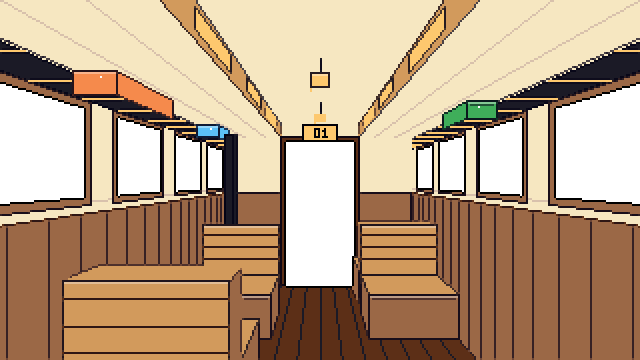
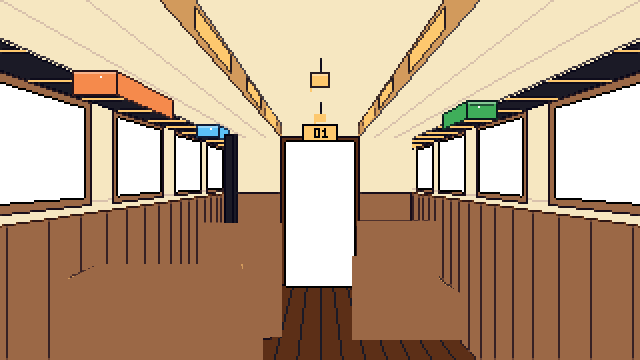
feat: Sépare les banquettes du wagon 01 en calques

Changed region(s): [[0.0938, 0.6111, 0.4375, 1.0], [0.5312, 0.6111, 0.7188, 0.9472]]

diff --git a/index.html b/index.html
@@ -36,6 +36,9 @@
         <img class="wagon__calque wagon__porte wagon__porte--gauche" src="assets/images/commun/porte-gauche.png" alt="">
         <img class="wagon__calque wagon__porte wagon__porte--droite" src="assets/images/commun/porte-droite.png" alt="">
         <img class="wagon__calque" src="assets/images/wagon-01/interieur.png" alt="Intérieur du wagon, banquettes en bois face à face">
+        <img class="wagon__calque" src="assets/images/wagon-01/banc-02.png" alt="">
+        <img class="wagon__calque" src="assets/images/wagon-01/banc-01.png" alt="">
+        <img class="wagon__calque" src="assets/images/wagon-01/banc-03.png" alt="">
         <img class="wagon__calque wagon__personnage" src="assets/images/wagon-01/personnage-01.png" alt="Vieux monsieur assis de dos" data-nom="Margot" data-pensee="Lorem ipsum dolor sit amet, consectetur adipiscing elit.">
         <img class="wagon__calque wagon__personnage" src="assets/images/wagon-01/personnage-02.png" alt="Voyageuse aux cheveux violets, assise de face" data-nom="Jules" data-pensee="Sed do eiusmod tempor incididunt ut labore.">
         <!-- Joaquim : sprite dessiné par Lino, posé tel quel (sans retouche ni mise à l'échelle) -->
